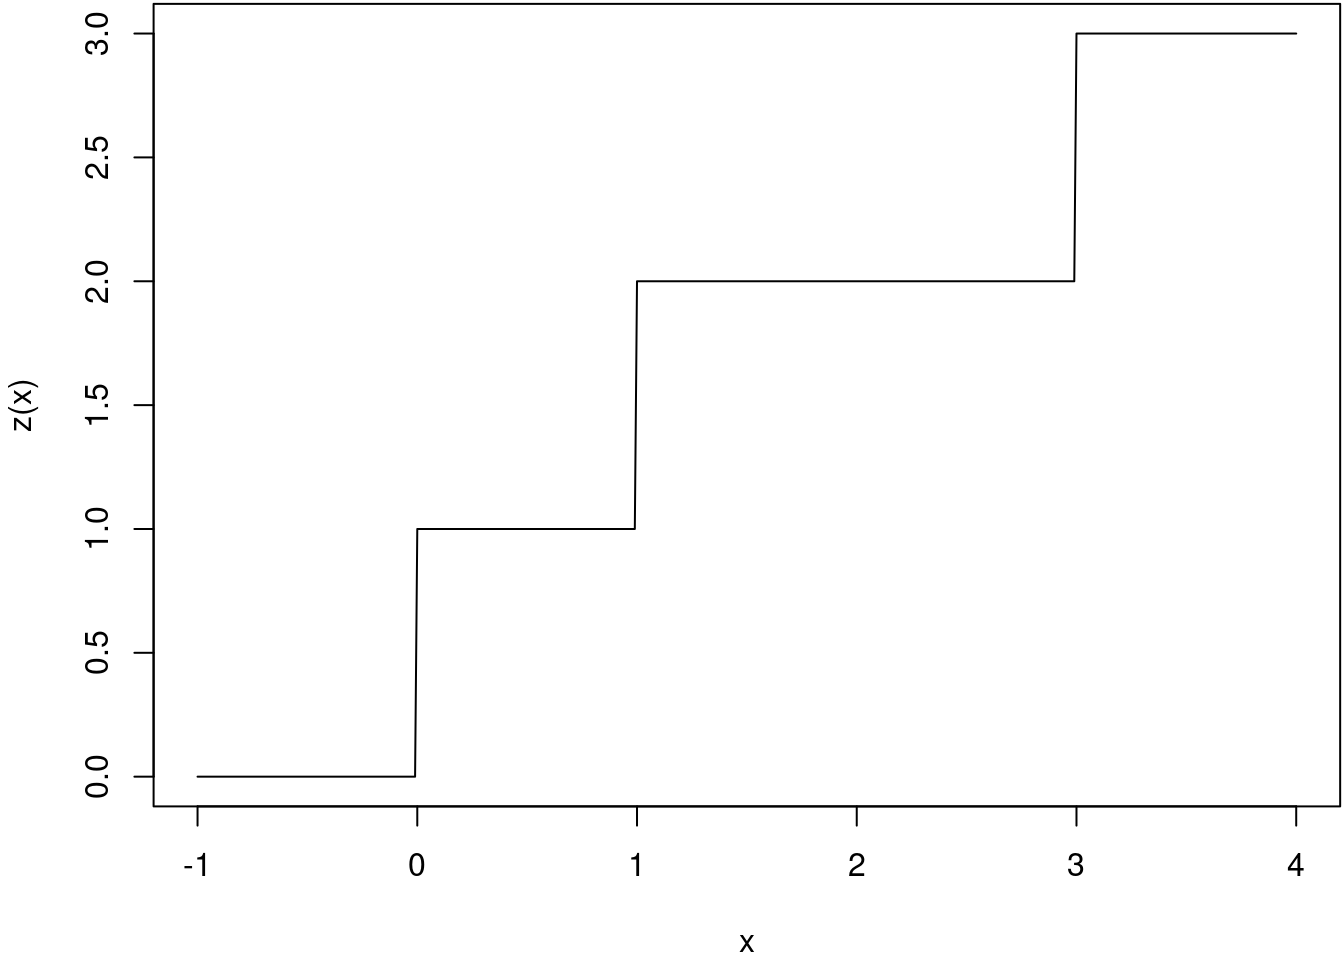
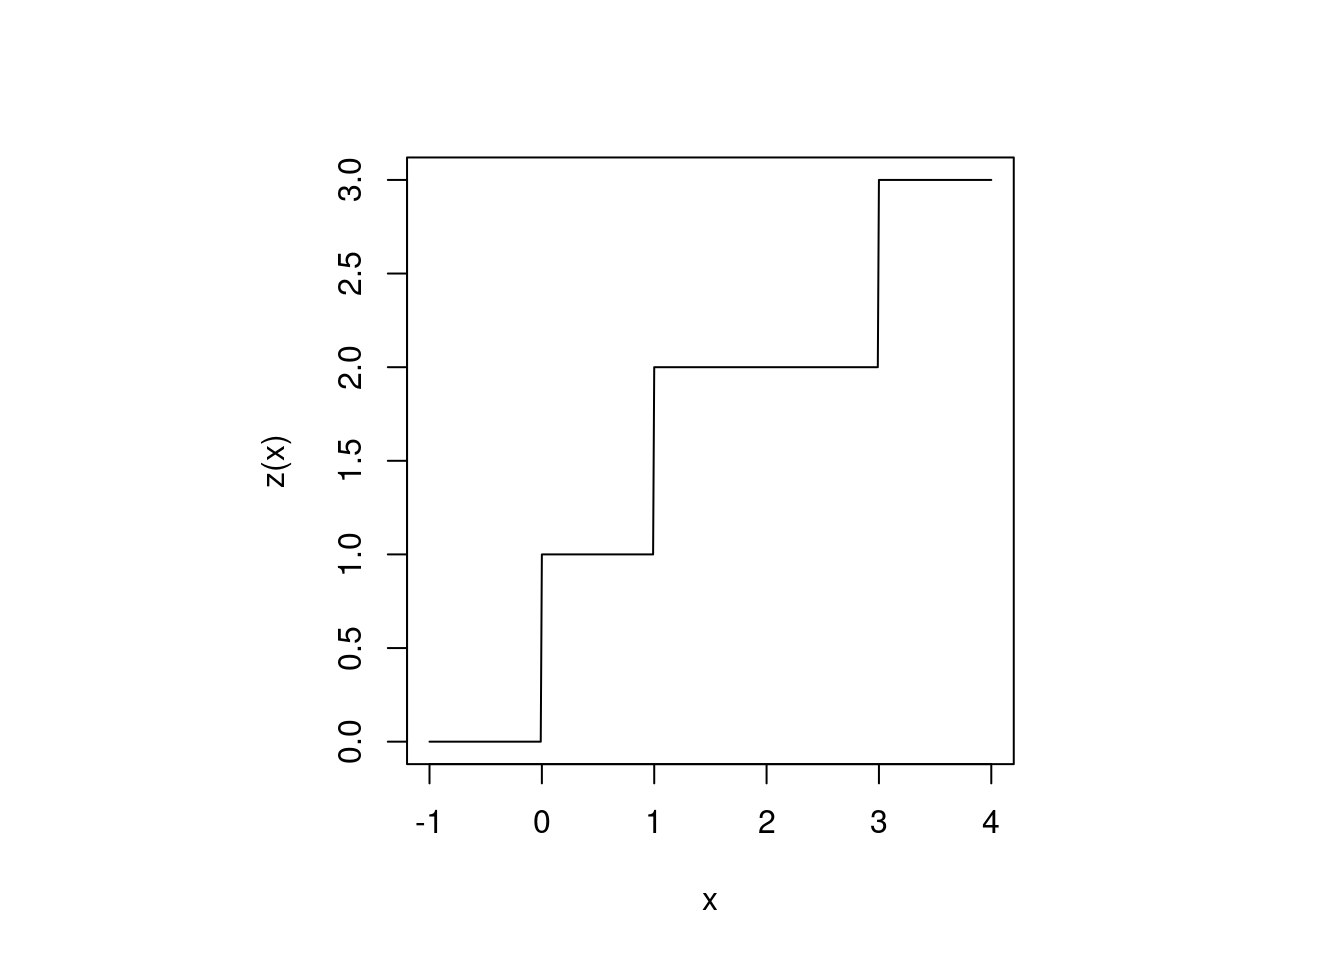
Fig align

diff --git a/docs/measuretheory.html b/docs/measuretheory.html
@@ -425,7 +425,7 @@ then find integral of <span class="math inline">\(f \in \mathbb{R}\)</span>.</td
 </tbody>
 </table>
 <p>이 문제는 직사각형의 넓이만 구할 수 있으면 아주 쉽게 구할 수 있습니다.</p>
-<div class="figure"><span id="fig:unnamed-chunk-1"></span>
+<div class="figure" style="text-align: center"><span id="fig:unnamed-chunk-1"></span>
 <img src="ML_with_Rust_files/figure-html/unnamed-chunk-1-1.png" alt="Simple function example" width="672" />
 <p class="caption">
 Figure 3.1: Simple function example
